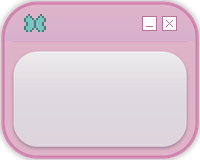
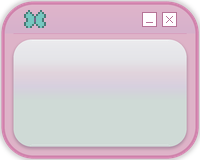
Pixel Daydream: even gradient on long bubbles, visible received gradient, fix corners
- Put the whole panel colour transition in the 9-slice STRETCH zone with solid
  cap zones equal to the gradient end colours, so KakaoTalk scales the gradient
  evenly across any-height bubble -- long messages no longer show a flat band.
- Received (white) bubble now has a visible light hologram gradient
  (white -> pink -> lilac -> mint) instead of flat white.
- Fixed bubbles flaring wider at the bottom: shrank the title bar (16px) and
  inner corner radius (9px) so BOTH top and bottom panel corners sit fully
  inside the 30px 9-slice cap and stay symmetric when stretched.
- Re-centred the title-bar butterfly/buttons for the shorter bar; text inset
  top reduced to 28px to match.

Claude-Session: https://claude.ai/code/session_0131KihTAuQeJCaUMiKQDazA

Changed region(s): [[0.0, 0.0, 1.0, 0.4375], [0.0, 0.7812, 0.18, 1.0], [0.84, 0.7812, 1.0, 1.0]]

diff --git a/themes/pixel-daydream/KakaoTalkTheme.css b/themes/pixel-daydream/KakaoTalkTheme.css
@@ -116,8 +116,8 @@ MessageCellStyle-Send
   -ios-selected-background-image: 'chatroomBubbleSend01Selected.png' 30px 30px;
   -ios-group-background-image: 'chatroomBubbleSend02.png' 30px 30px;
   -ios-group-selected-background-image: 'chatroomBubbleSend02Selected.png' 30px 30px;
-  -ios-title-edgeinsets: 34px 16px 15px 16px;
-  -ios-group-title-edgeinsets: 34px 16px 15px 16px;
+  -ios-title-edgeinsets: 28px 16px 14px 16px;
+  -ios-group-title-edgeinsets: 28px 16px 14px 16px;
   -ios-text-color: #45456E;
   -ios-selected-text-color: #45456E;
   -ios-unread-text-color: #6E7BC8;
@@ -129,8 +129,8 @@ MessageCellStyle-Receive
   -ios-selected-background-image: 'chatroomBubbleReceive01Selected.png' 30px 30px;
   -ios-group-background-image: 'chatroomBubbleReceive02.png' 30px 30px;
   -ios-group-selected-background-image: 'chatroomBubbleReceive02Selected.png' 30px 30px;
-  -ios-title-edgeinsets: 34px 16px 15px 16px;
-  -ios-group-title-edgeinsets: 34px 16px 15px 16px;
+  -ios-title-edgeinsets: 28px 16px 14px 16px;
+  -ios-group-title-edgeinsets: 28px 16px 14px 16px;
   -ios-text-color: #6B4A60;
   -ios-selected-text-color: #6B4A60;
   -ios-unread-text-color: #EE6FA6;

diff --git a/themes/pixel-daydream/scripts/generate_images.py b/themes/pixel-daydream/scripts/generate_images.py
@@ -297,10 +297,10 @@ class Bub:
                    [d(c) for c in self.panel_stops], d(self.div), self.glow, d(self.wing))
 
 
-# received = pink window / pearly near-white panel (subtle top->bottom tint)
+# received = pink window / light vertical hologram panel (white->pink->lilac->mint)
 RECV = Bub(border=(232, 146, 192), frame=(247, 199, 223),
            title_top=(250, 202, 225), title_bot=(238, 197, 227),
-           panel_stops=[(255, 253, 255), (253, 247, 252), (249, 244, 252), (252, 240, 248)],
+           panel_stops=[(249, 250, 255), (251, 234, 244), (240, 235, 251), (233, 247, 241)],
            div=(236, 158, 200), glow=(252, 206, 232, 150), wing=(132, 222, 214))
 
 # sent = periwinkle window / vertical blue->lavender->pink->mint hologram panel
@@ -316,11 +316,15 @@ def _bubble_master(b):
     """Render the embossed, glossy hologram window at DS resolution."""
     W, H = BUB_W * DS, BUB_H * DS
     lw = max(2, int(1.6 * DS))
-    r_out = 18 * DS
-    title_h = 20 * DS
+    r_out = 16 * DS
+    title_h = 16 * DS
     margin = 6 * DS                  # frame thickness around the inset panel
-    r_in = 12 * DS
-    panel_gap = 5 * DS               # gap between title bar and the panel
+    r_in = 9 * DS
+    panel_gap = 3 * DS               # gap between title bar and the panel
+    # NB: title_h + panel_gap + r_in (+border) must stay <= CAP so BOTH the
+    # top AND bottom panel corners sit fully inside the 9-slice cap -- otherwise
+    # tall bubbles stretch the top corners only and the box flares wider at the
+    # bottom.
     blank = Image.new("RGBA", (W, H), (0, 0, 0, 0))
     full = [lw // 2, lw // 2, W - lw // 2, H - lw // 2]
 
@@ -357,11 +361,17 @@ def _bubble_master(b):
         [px0, py0 + int(DS * 0.9), px1, py1 + int(DS * 0.9)], radius=r_in, fill=(72, 60, 104, 85))
     out.alpha_composite(sh.filter(ImageFilter.GaussianBlur(DS * 0.8)))
 
-    # iridescent fill -- VERTICAL gradient mapped to the panel's own height so
-    # it survives 9-slice stretching (see _grad_v_stops).
-    strip = _grad_v_stops(W, py1 - py0, b.panel_stops).convert("RGBA")
+    # iridescent fill. The whole colour transition lives in the 9-slice
+    # STRETCH zone (between the caps); the cap zones are solid and equal to the
+    # gradient's end colours. That way KakaoTalk scales the gradient evenly over
+    # the middle of any-height bubble while the caps seamlessly continue the end
+    # colours -- so long messages get an evenly dispersed gradient, not a band.
+    mid0, mid1 = CAP * DS, H - CAP * DS
     pfill = Image.new("RGBA", (W, H), (0, 0, 0, 0))
-    pfill.paste(strip, (0, py0))
+    pd = ImageDraw.Draw(pfill)
+    pd.rectangle([0, py0, W, mid0], fill=b.panel_stops[0] + (255,))
+    pfill.paste(_grad_v_stops(W, mid1 - mid0, b.panel_stops).convert("RGBA"), (0, mid0))
+    pd.rectangle([0, mid1, W, py1], fill=b.panel_stops[-1] + (255,))
     out.paste(pfill, (0, 0), pmask)
 
     # glossy highlight across the top half of the panel (vertical fade)
@@ -402,14 +412,14 @@ def _overlay_widgets(img, scale, b):
     d = ImageDraw.Draw(img)
     # pixel butterfly, inset from the LEFT, vertically centred in the title bar
     draw_pixels(d, BUTTERFLY, pal_butterfly(b.wing, darken(b.wing, 0.62)),
-                12 * scale, 7 * scale, scale)
+                12 * scale, 5 * scale, scale)
     # minimize + close buttons, inset from the RIGHT, centred in the title bar
     edge = darken(b.border, 0.88)
     bfill = (255, 253, 255, 240)
     size = 7
     for i, kind in enumerate(("min", "close")):
         x = (71 + i * 10) * scale
-        y = 8 * scale
+        y = 6 * scale
         x1, y1 = x + size * scale, y + size * scale
         d.rectangle([x, y, x1, y1], fill=bfill, outline=edge, width=max(1, scale // 2))
         if kind == "min":

diff --git a/themes/pixel-daydream/scripts/preview_pages.py b/themes/pixel-daydream/scripts/preview_pages.py
@@ -69,7 +69,7 @@ def chatroom():
     # bubbles tall enough (>= 2*clamped-cap) that the 9-slice preserves that
     # title region 1:1, then anchor the text just below it -- mirroring how the
     # 34px top edge-inset reserves the title bar in the real app.
-    TITLE_PX = 62
+    TITLE_PX = 50
 
     def bubble(lines, side, y, ts):
         tw = max(int(d.textlength(ln, font=ft)) for ln in lines)
